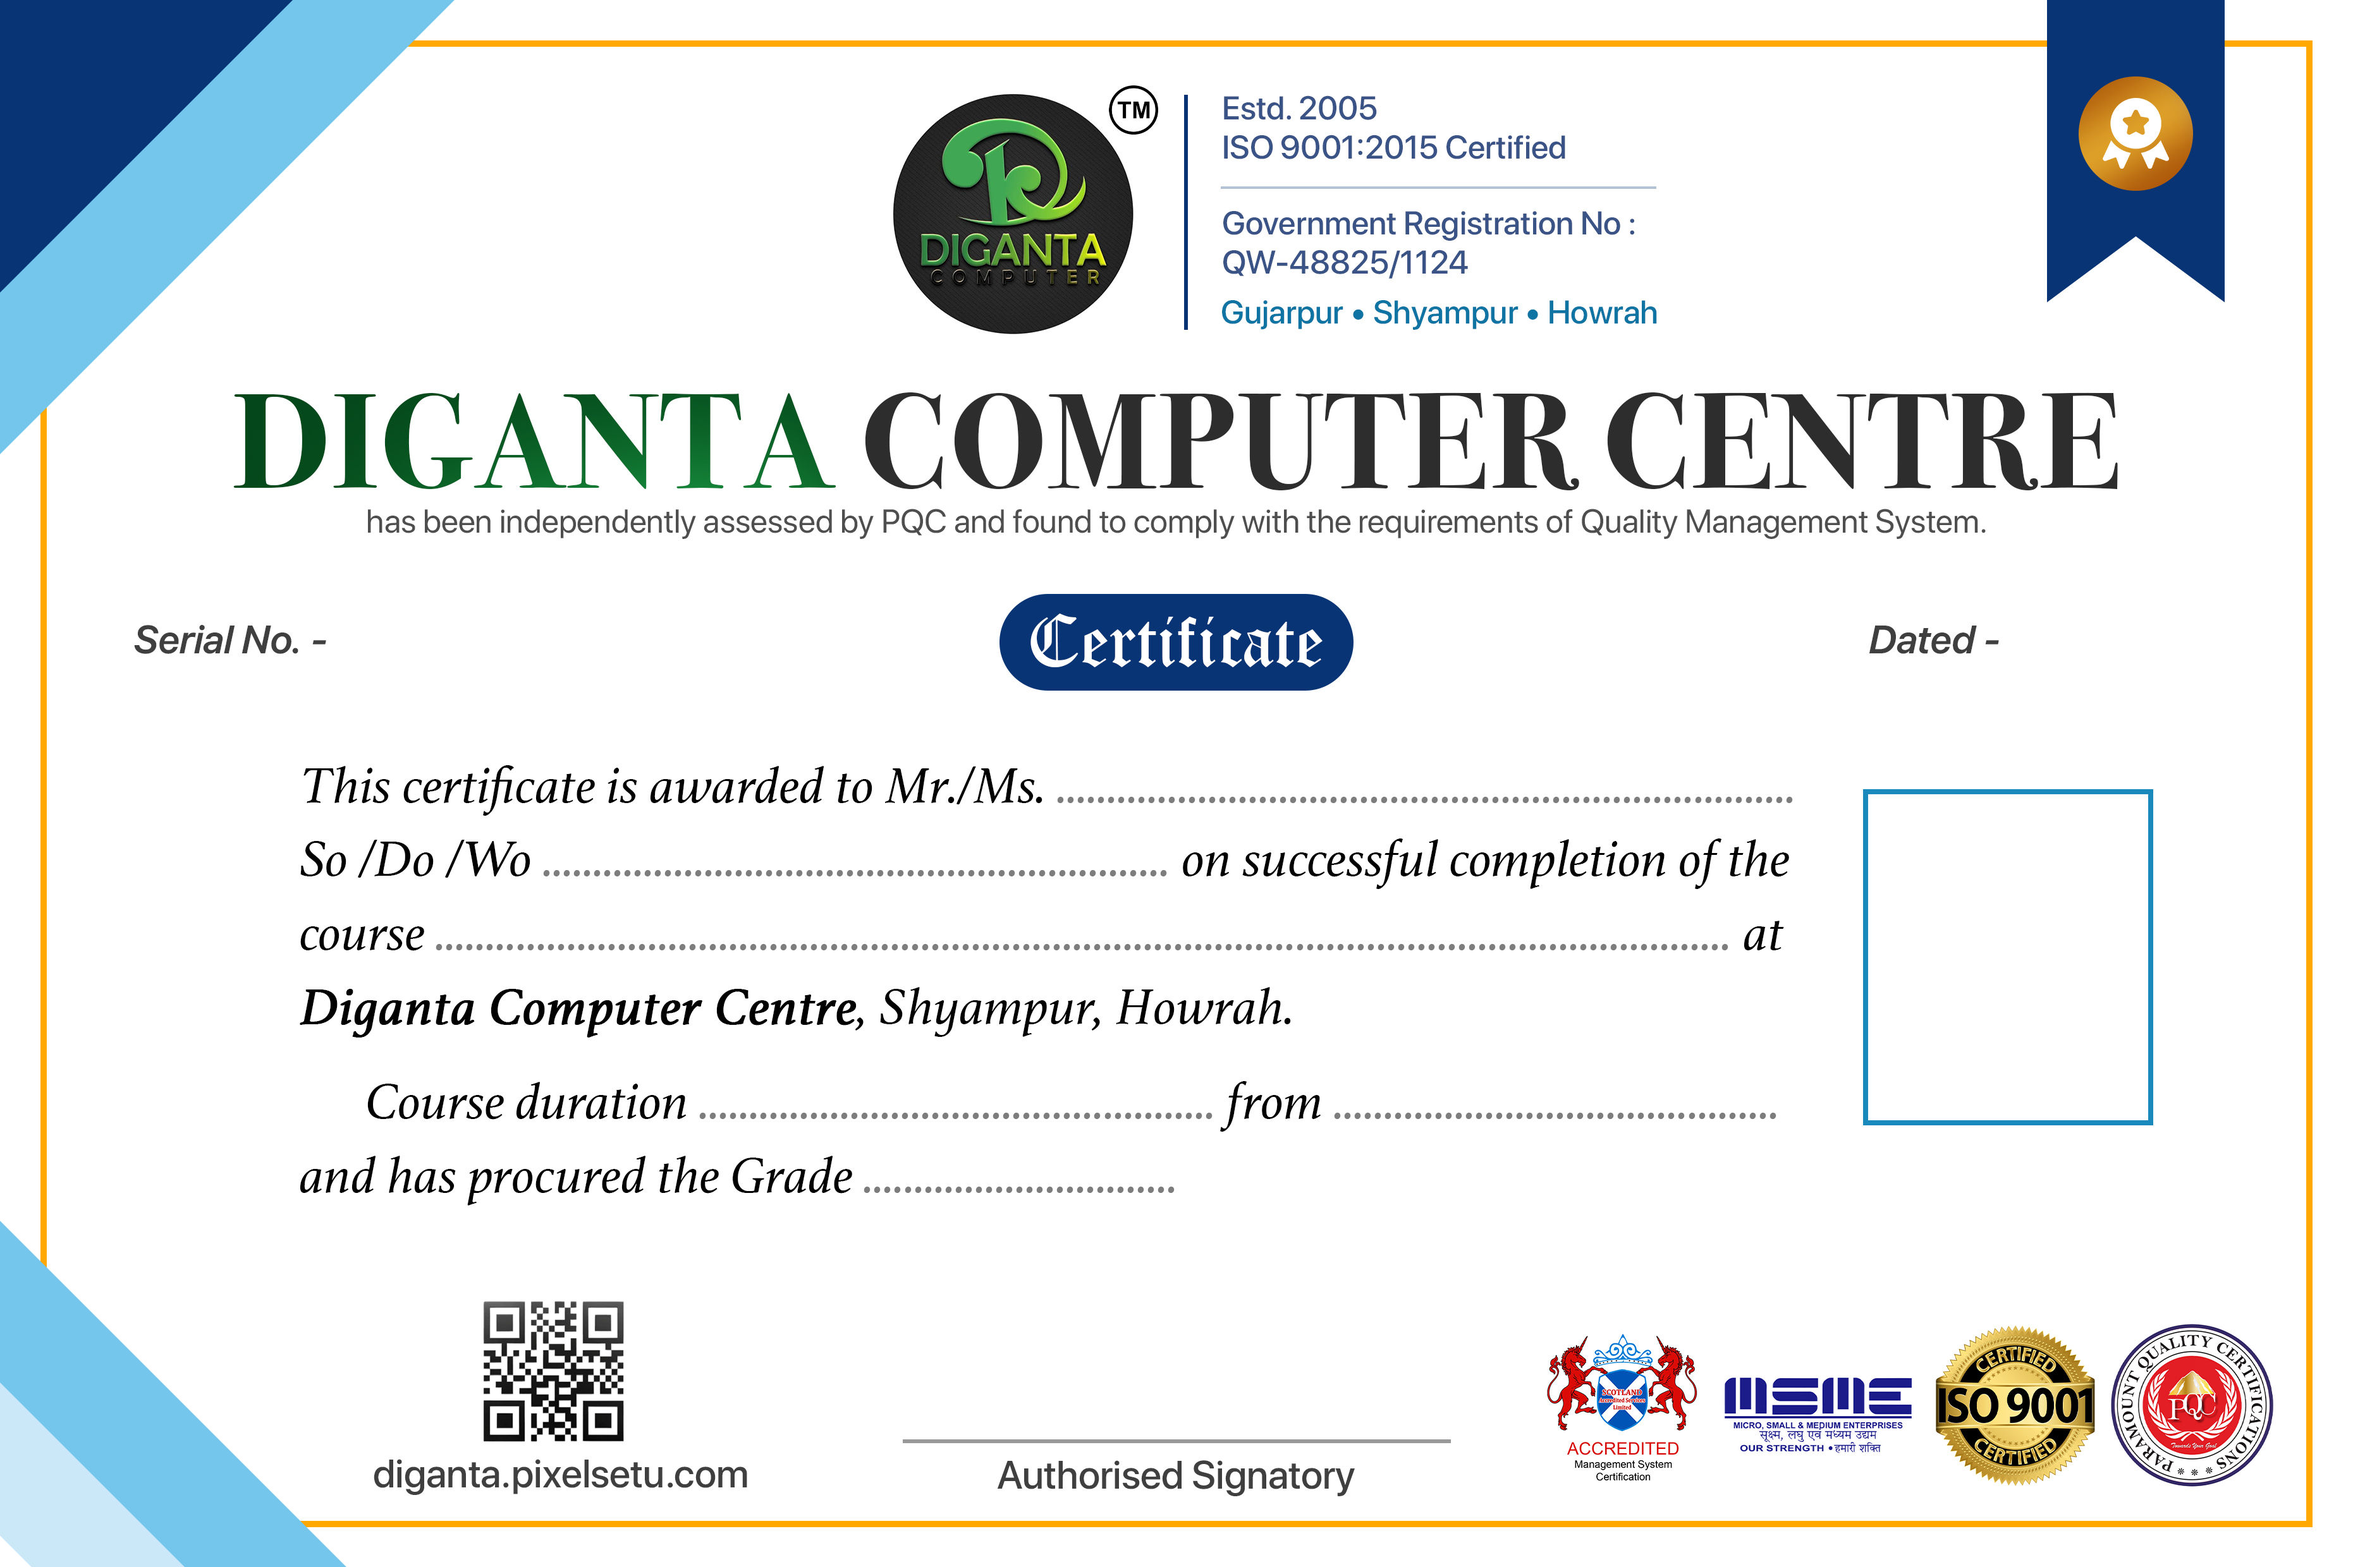
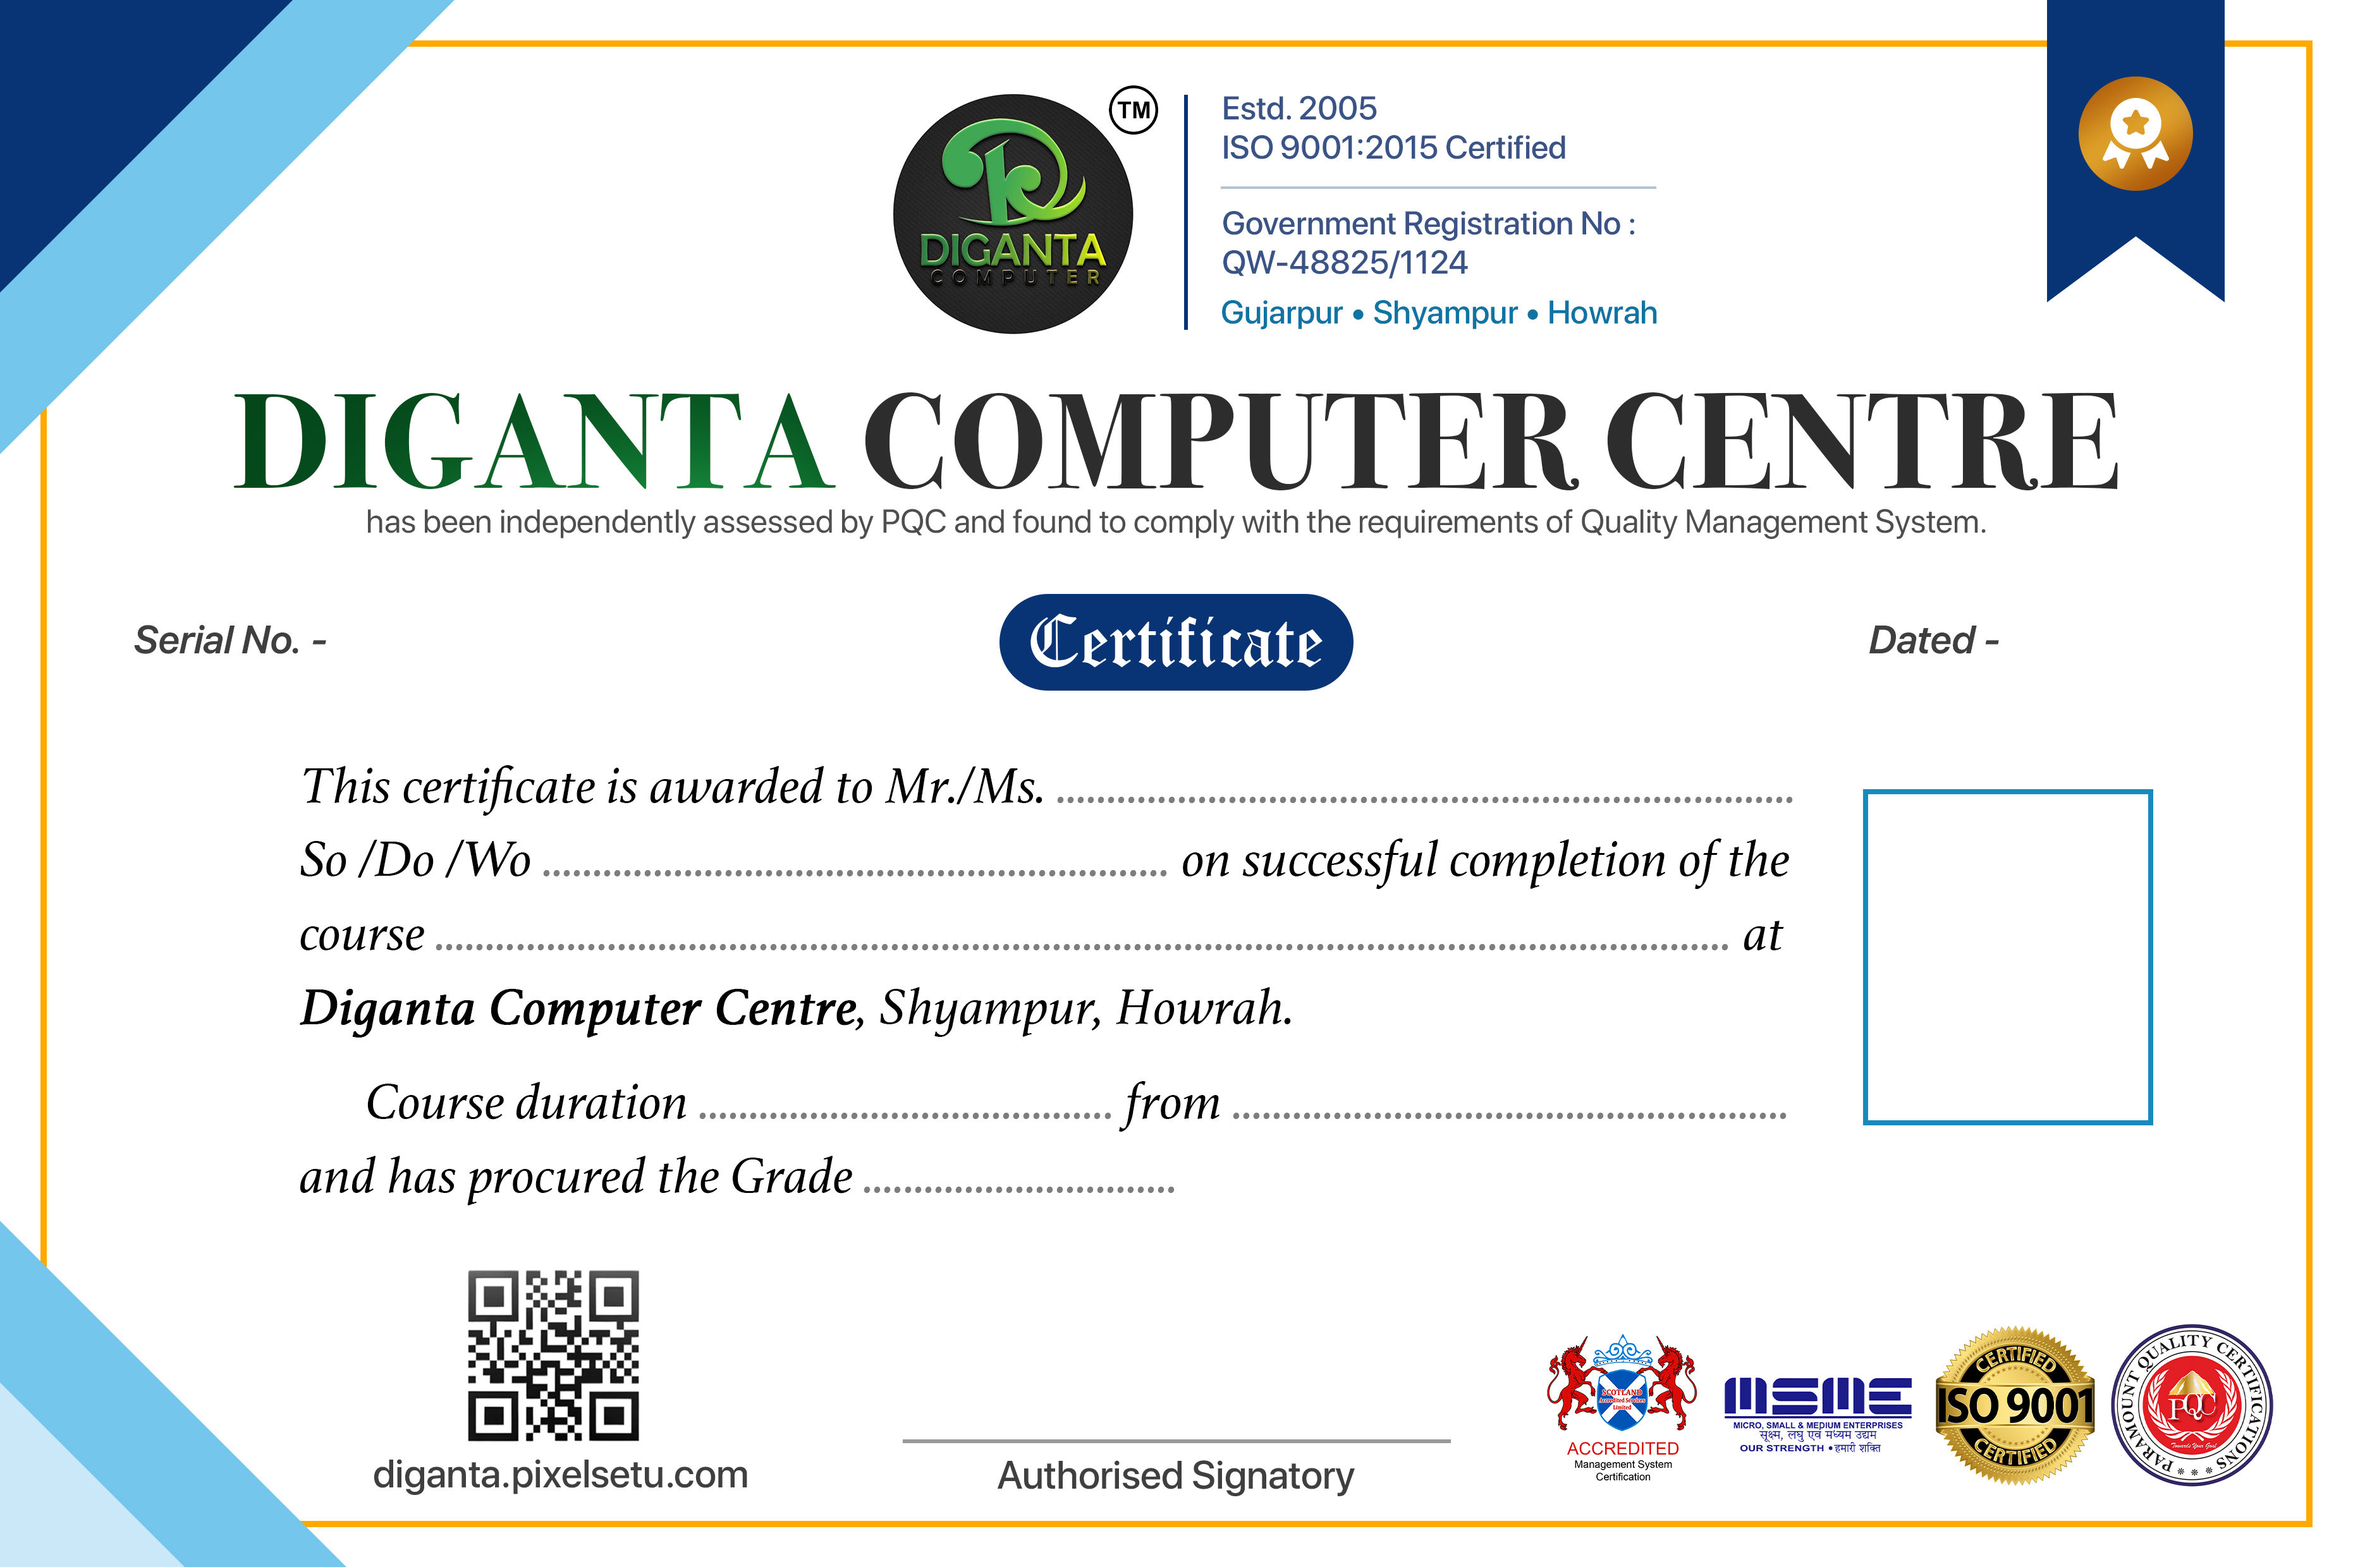
Refine dynamic certificate layout and preview

Changed region(s): [[0.187, 0.8073, 0.2805, 0.9315], [0.4675, 0.6831, 0.561, 0.7141], [0.0, 0.9935, 0.0312, 1.0]]

diff --git a/certificate-preview.html b/certificate-preview.html
@@ -1,0 +1,57 @@
+<!DOCTYPE html>
+<html lang="en">
+<head>
+  <meta charset="UTF-8">
+  <meta name="viewport" content="width=device-width, initial-scale=1">
+  <title>Certificate live preview</title>
+  <style>
+    * { box-sizing: border-box; }
+    body { margin: 0; min-height: 100vh; background: #e2e8f0; font: 14px system-ui, sans-serif; color: #172b49; }
+    main { min-height: 100vh; display: grid; place-items: center; padding: 20px; }
+    canvas { display: block; width: min(100%, calc((100vh - 40px) * 3722 / 2480)); height: auto; background: white; box-shadow: 0 8px 32px #172b4926; }
+    details { position: fixed; top: 10px; left: 10px; z-index: 1; background: #fff; border: 1px solid #cbd5e1; border-radius: 8px; box-shadow: 0 4px 16px #0001; }
+    summary { padding: 10px 14px; cursor: pointer; }
+    .controls { padding: 0 14px 14px; max-width: 330px; max-height: 75vh; overflow: auto; }
+    label { display: grid; gap: 4px; margin: 10px 0; }
+    input, button { font: inherit; padding: 8px; border: 1px solid #cbd5e1; border-radius: 4px; }
+    button { cursor: pointer; background: #eff6ff; }
+    button:disabled { opacity: .5; cursor: default; }
+    #certCanvasStatus { margin-bottom: 0; }
+    @media print {
+      @page { size: A4 landscape; margin: 8mm; }
+      details { display: none; }
+      body { background: white; }
+      main { display: block; min-height: 0; padding: 0; }
+      canvas { width: 100%; box-shadow: none; }
+    }
+  </style>
+</head>
+<body>
+  <details>
+    <summary>Preview controls</summary>
+    <div class="controls">
+      <p>Edit and save <code>certificate-canvas.js</code> to see placement changes automatically. These are sample details only.</p>
+      <form id="sampleData">
+        <label>Student name<input name="name" value="Sample Student"></label>
+        <label>Father’s name<input name="fatherName" value="Sample Parent"></label>
+        <label>Serial number<input name="certificateSerial" value="DEMO-001"></label>
+        <label>Issue date<input name="certificateIssueDate" type="date" value="2026-09-08"></label>
+        <label>Course<input name="courseTitle" value="Post Graduate Diploma in Computer Applications (PGDCA)"></label>
+        <label>Duration<input name="courseDuration" value="1 Year"></label>
+        <label>Start date<input name="joinDate" type="date" value="2025-09-01"></label>
+        <label>Completion date<input name="completionDate" type="date" value="2026-08-31"></label>
+        <label>Grade<input name="grade" value="A+"></label>
+      </form>
+      <button id="btnPrintCertificate" disabled>Print / Save PDF</button>
+      <button id="btnDownloadCertificate" disabled>Download PNG</button>
+      <p id="certCanvasStatus" role="status" aria-live="polite"></p>
+    </div>
+  </details>
+  <main>
+    <canvas id="certificateCanvas" width="3722" height="2480" role="img" aria-label="Sample certificate preview"></canvas>
+  </main>
+  <script src="site-config.js?v=3"></script>
+  <script src="certificate-canvas.js?v=13"></script>
+  <script src="certificate-preview.js?v=2"></script>
+</body>
+</html>

diff --git a/certificate-canvas.js b/certificate-canvas.js
@@ -22,17 +22,24 @@
     const parsed = new Date(String(value).slice(0, 10) + 'T00:00:00');
     return Number.isNaN(parsed.getTime()) ? '' : parsed.toLocaleDateString('en-GB');
   }
-  function field(value, x, y, width, size = 30) {
+  function monthYear(value) {
+    if (!value) return '';
+    const parsed = new Date(String(value).slice(0, 10) + 'T00:00:00');
+    return Number.isNaN(parsed.getTime()) ? '' : parsed.toLocaleDateString('en-GB', {
+      month: 'short',
+      year: 'numeric'
+    });
+  }
+  function field(value, x, y, width, size = 37, align = 'center') {
     const text = String(value || '').replace(/\s+/g, ' ').trim();
     if (!text) return;
     ctx.save();
-    ctx.fillStyle = '#fff';
-    ctx.fillRect(x, y - size - 4, width, size + 10);
     ctx.fillStyle = '#142d4e';
-    do { ctx.font = `600 ${size--}px Georgia, serif`; }
+    do { ctx.font = `700 ${size--}px "SF Pro Display", "SF Pro Text", -apple-system, BlinkMacSystemFont, Arial, sans-serif`; }
     while (ctx.measureText(text).width > width - 12 && size > 15);
-    ctx.textAlign = 'center';
-    ctx.fillText(text, x + width / 2, y, width - 12);
+    ctx.textAlign = align;
+    const textX = align === 'left' ? x : x + width / 2;
+    ctx.fillText(text, textX, y, width - 12);
     ctx.restore();
   }
   function clear() {
@@ -51,18 +58,15 @@
       if (current !== revision) return;
       ctx.drawImage(background, 0, 0, canvas.width, canvas.height);
       ctx.setTransform(canvas.width / 1920, 0, 0, canvas.height / 1280, 0, 0);
-      // Always remove the example portrait, including when no student photo exists.
-      ctx.fillStyle = '#fff';
-      ctx.fillRect(1524, 650, 228, 264);
-      field(student.certificateSerial || student.id, 275, 533, 490, 27);
-      field(date(student.certificateIssueDate), 1640, 533, 200, 25);
-      field(student.name || student.fullName, 860, 650, 605);
-      field(student.fatherName, 442, 712, 514);
-      field(course?.title, 355, 773, 1055);
-      field(course?.duration, 571, 909, 420);
-      const period = [date(student.joinDate), date(student.completionDate)].filter(Boolean).join(' – ');
-      field(period, 1088, 909, 366, 26);
-      field(student.grade, 706, 970, 252);
+      field(student.certificateSerial || student.id, 284, 533, 481, 34, 'left');
+      field(date(student.certificateIssueDate), 1640, 533, 200, 34, 'left');
+      field(student.name || student.fullName, 860, 642, 605);
+      field(student.fatherName, 442, 704, 514);
+      field(course?.title, 355, 765, 1055);
+      field(course?.duration, 583, 901, 326);
+      const period = [monthYear(student.joinDate), monthYear(student.completionDate)].filter(Boolean).join(' - ');
+      field(period, 1007, 901, 437, 33);
+      field(student.grade, 706, 962, 252);
       let photoFailed = false;
       if (student.photoUrl) {
         try {

diff --git a/certificate-preview.js b/certificate-preview.js
@@ -1,0 +1,44 @@
+/* Standalone preview. Never reads or modifies student records. */
+(() => {
+  const form = document.getElementById('sampleData');
+  const key = 'certificate-preview-sample';
+  try {
+    const saved = JSON.parse(sessionStorage.getItem(key) || '{}');
+    for (const input of form.elements) {
+      if (typeof saved[input.name] === 'string') input.value = saved[input.name];
+    }
+  } catch { /* Storage is optional. */ }
+
+  function render() {
+    const data = Object.fromEntries(new FormData(form));
+    try { sessionStorage.setItem(key, JSON.stringify(data)); } catch {}
+    window.CertificateCanvas.render(data, { title: data.courseTitle, duration: data.courseDuration });
+  }
+  form.addEventListener('submit', event => event.preventDefault());
+  form.addEventListener('input', render);
+  document.getElementById('btnPrintCertificate').addEventListener('click', () => window.print());
+  render();
+
+  // Plain HTTP servers can preview saved edits without a build tool or extension.
+  // Watch only on local hosts; deployed previews do not poll the server.
+  if (!['localhost', '127.0.0.1', '[::1]'].includes(location.hostname)) return;
+  const files = ['certificate-canvas.js', 'site-config.js', 'certificate-preview.html', 'certificate-preview.js'];
+  let previous;
+  async function watch() {
+    try {
+      const sources = await Promise.all(files.map(async file => {
+        const response = await fetch(file, { cache: 'no-store' });
+        if (!response.ok) throw new Error('Preview source unavailable');
+        return response.text();
+      }));
+      const signature = JSON.stringify(sources);
+      if (previous && signature !== previous) {
+        location.reload();
+        return;
+      }
+      previous = signature;
+    } catch { /* Retry after temporary server interruptions. */ }
+    setTimeout(watch, 1000);
+  }
+  watch();
+})();

diff --git a/index.html b/index.html
@@ -15,7 +15,7 @@
   <link rel="stylesheet" href="https://cdnjs.cloudflare.com/ajax/libs/font-awesome/6.5.1/css/all.min.css">
   <!-- Custom Stylesheet -->
   <link rel="stylesheet" href="public-style.css?v=24.8">
-  <script src="site-config.js?v=2"></script>
+  <script src="site-config.js?v=3"></script>
   <script>
     // Fast synchronous pre-hydration to eliminate any flash or delay of text
     (function () {
@@ -1084,7 +1084,7 @@
   <div class="toast-container" id="toastContainer"></div>
 
   <!-- Public Script -->
-  <script src="certificate-canvas.js?v=2"></script>
+  <script src="certificate-canvas.js?v=13"></script>
   <script src="public-script.js?v=6.7"></script>
 </body>
 

diff --git a/site-config.js b/site-config.js
@@ -6,5 +6,5 @@ window.PUBLIC_SITE_CONFIG = Object.freeze({
   academySlug: 'prantik',
   apiBaseUrl: 'https://academy-admin-portal.vercel.app',
   adminPortalUrl: 'https://academy-admin-portal.vercel.app',
-  certificateTemplateUrl: 'assets/diganta-certificate-template.jpg'
+  certificateTemplateUrl: 'assets/diganta-certificate-template.jpg?v=2'
 });
